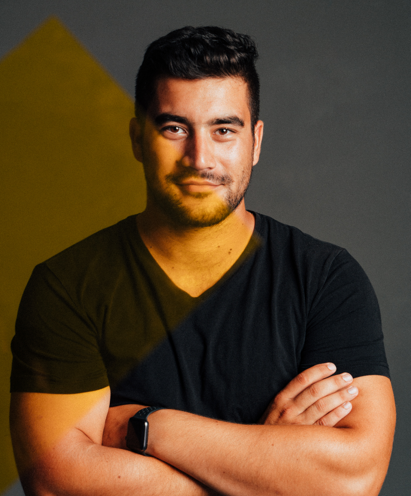
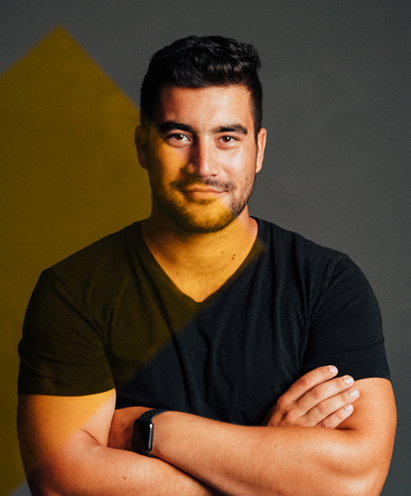
images updated, grayscale filter added, footer updated

diff --git a/dist/css/style.css b/dist/css/style.css
@@ -1,1 +1,1 @@
-a,abbr,acronym,address,applet,b,big,blockquote,body,caption,center,cite,code,dd,del,dfn,div,dl,dt,em,fieldset,font,form,h1,h2,h3,h4,h5,h6,html,i,iframe,img,ins,kbd,label,legend,li,object,ol,p,pre,q,s,samp,small,span,strike,strong,sub,sup,table,tbody,td,tfoot,th,thead,tr,tt,u,ul,var{margin:0;padding:0;border:0;outline:0;font-size:100%;vertical-align:baseline;background:transparent}body{line-height:1}ol,ul{list-style:none}blockquote,q{quotes:none}blockquote:after,blockquote:before,q:after,q:before{content:"";content:none}:focus{outline:0}ins{text-decoration:none}del{text-decoration:line-through}table{border-collapse:collapse;border-spacing:0}@font-face{font-family:NHaasGroteskTX;font-weight:400;src:url(fonts/nhaasgrotesktx_regular.ttf) format("truetype")}@-webkit-keyframes a{0%{-webkit-transform:translateX(50%)}to{-webkit-transform:translateX(-100%)}}@keyframes a{0%{transform:translateX(50%)}to{transform:translateX(-100%)}}.border-top{border-top:1px solid #979797}.border-bottom{border-bottom:1px solid #979797}.container{max-width:80%;margin:0 auto}.btn{background:#322f31;color:#fff}.btn:hover{color:#322f31}.grid{display:grid;grid-gap:1.8rem;grid-template-columns:1fr 1fr 1fr;grid-template-rows:auto auto}.marquee{height:50px;overflow:hidden;position:relative}.marquee p{position:absolute;width:200%;height:100%;margin:0;line-height:50px;text-align:center;transform:translateX(200%);-webkit-animation:a 0s linear infinite;animation:a 35s linear infinite}a{color:inherit;text-decoration:none}a:hover{text-decoration:underline;background:hsla(43,11%,87%,.9)}img{max-width:100%;height:auto}h1,h2,h3,h4,h5,h6{font-weight:400}p{margin-bottom:1.6rem}li,p{line-height:1.25}.desktop-only{display:none}@media screen and (min-width:991px){.desktop-only{display:block}}*{-webkit-font-smoothing:antialiased;-moz-osx-font-smoothing:grayscale}::-moz-selection{background:hsla(43,11%,87%,.9)}::selection{background:hsla(43,11%,87%,.9)}html{scroll-behavior:smooth}body,html{background:#fff}body{font-size:18px;font-family:NHaasGroteskTX;color:#322f31}header{display:flex;flex-direction:row;justify-content:space-between;align-items:center;width:100%;padding:.6rem 0}header img{max-height:2rem}header nav ul li{display:inline;padding:.1rem .3rem}header nav ul li:hover{text-decoration:underline;background:hsla(43,11%,87%,.9)}main section{padding-bottom:6rem}main section h2{font-size:2rem;margin-top:.4rem;margin-bottom:2rem}main section#hero{display:flex;flex-direction:row;justify-content:space-between;align-items:center;padding:8rem 0}main section#hero h1{font-size:9.7rem;line-height:10.3rem}main section#services{display:grid;grid-template-columns:1fr 1fr 1fr;grid-template-rows:auto;grid-gap:1.8rem}main section#services .description{margin-top:2rem}main section#services .list{margin-top:4rem}main section#process .marquee{font-style:italic}main section#process #process-slider{width:100%;height:auto;margin-top:6rem;padding:1rem 0}main section#process #process-slider .slider-content-wrapper{display:flex;flex-direction:row;justify-content:space-between;align-items:flex-start;padding:6rem 0 0}main section#process #process-slider .slider-content-wrapper .slider-title{font-size:9rem}main section#process #process-slider .slider-content-wrapper .slider-content{max-width:46%}main section#process #process-slider .swiper-pagination{position:relative;align-items:center;display:grid;grid-template-columns:1fr 1fr 1fr;justify-content:space-between}main section#process #process-slider .swiper-pagination:before{content:"";width:98%;height:1px;position:absolute;top:50%;left:1%;background:#979797;z-index:-1}main section#process #process-slider .swiper-pagination-bullets{width:100%!important}main section#process #process-slider .swiper-pagination-bullets .swiper-pagination-bullet{width:1.875rem;height:1.875rem;border-radius:0;background:#322f31;opacity:1;justify-self:center}main section#process #process-slider .swiper-pagination-bullets .swiper-pagination-bullet.swiper-pagination-bullet-active{width:3.625rem;height:3.625rem}main section#process #process-slider .swiper-pagination-bullets .swiper-pagination-bullet:first-child{justify-self:start}main section#process #process-slider .swiper-pagination-bullets .swiper-pagination-bullet:last-child{justify-self:end}main section#clients .grid{display:grid;grid-template-columns:1fr 1fr 1fr 1fr 1fr 1fr 1fr;grid-template-rows:1fr 1fr;grid-gap:1.8rem}main section#clients .grid .client{background:hsla(43,11%,87%,.9)}main section#clients .grid .client:before{content:"";float:left;padding-top:100%}main section#about .team{display:grid;grid-template-columns:1fr 1fr 1fr;grid-gap:1.8rem;grid-template-rows:auto;margin-top:5rem}main section#about .team .team-member h2{font-size:100%;margin-bottom:0;margin-top:1.3rem;line-height:150%}main section#contact .grid .grid-item .btn{display:block;padding:.6rem 1.2rem}
+a,abbr,acronym,address,applet,b,big,blockquote,body,caption,center,cite,code,dd,del,dfn,div,dl,dt,em,fieldset,font,form,h1,h2,h3,h4,h5,h6,html,i,iframe,img,ins,kbd,label,legend,li,object,ol,p,pre,q,s,samp,small,span,strike,strong,sub,sup,table,tbody,td,tfoot,th,thead,tr,tt,u,ul,var{margin:0;padding:0;border:0;outline:0;font-size:100%;vertical-align:baseline;background:transparent}body{line-height:1}ol,ul{list-style:none}blockquote,q{quotes:none}blockquote:after,blockquote:before,q:after,q:before{content:"";content:none}:focus{outline:0}ins{text-decoration:none}del{text-decoration:line-through}table{border-collapse:collapse;border-spacing:0}@font-face{font-family:NHaasGroteskTX;font-weight:400;src:url(fonts/nhaasgrotesktx_regular.ttf) format("truetype")}@-webkit-keyframes a{0%{-webkit-transform:translateX(50%)}to{-webkit-transform:translateX(-100%)}}@keyframes a{0%{transform:translateX(50%)}to{transform:translateX(-100%)}}.border-top{border-top:1px solid #979797}.border-bottom{border-bottom:1px solid #979797}.container{max-width:90%;margin:0 auto}.btn{background:#322f31;color:#fff}.btn:hover{color:#322f31}.grid{display:grid;grid-gap:1.8rem;grid-template-columns:1fr 1fr 1fr;grid-template-rows:auto auto}.marquee{height:50px;overflow:hidden;position:relative}.marquee p{position:absolute;width:200%;height:100%;margin:0;line-height:50px;text-align:center;transform:translateX(200%);-webkit-animation:a 0s linear infinite;animation:a 35s linear infinite}a{color:inherit;text-decoration:none}a:hover{text-decoration:underline;background:hsla(43,11%,87%,.9)}img{max-width:100%;height:auto}@media screen and (min-width:1440px){img.grayscale-filter{filter:gray;-webkit-filter:grayscale(1)}img.grayscale-filter:hover{filter:none;-webkit-filter:grayscale(0)}}h1,h2,h3,h4,h5,h6{font-weight:400}p{margin-bottom:1.6rem}li,p{line-height:1.25}.desktop-only{display:none}@media screen and (min-width:991px){.desktop-only{display:block}}*{-webkit-font-smoothing:antialiased;-moz-osx-font-smoothing:grayscale}::-moz-selection{background:hsla(43,11%,87%,.9)}::selection{background:hsla(43,11%,87%,.9)}html{scroll-behavior:smooth;background:hsla(43,11%,87%,.9)}body{font-size:18px;font-family:NHaasGroteskTX;color:#322f31;background:#fff}header{display:flex;flex-direction:row;justify-content:space-between;align-items:center;width:100%;padding:2rem 0 1.2rem}header img{max-height:2rem}header nav ul li{display:inline;padding:.1rem .3rem;margin-left:2rem}header nav ul li:hover{text-decoration:underline;background:hsla(43,11%,87%,.9)}main section{padding-bottom:6rem}main section h2{font-size:2rem;margin-top:.4rem;margin-bottom:2rem}main section#hero{display:flex;flex-direction:row;justify-content:space-between;align-items:center;padding:8rem 0}main section#hero h1{font-size:9.7rem;line-height:10.3rem}main section#services{display:grid;grid-template-columns:1fr 1fr 1fr;grid-template-rows:auto;grid-gap:1.8rem}main section#services .description{margin-top:2rem}main section#services .list{margin-top:4rem}main section#process .marquee{font-style:italic}main section#process #process-slider{width:100%;height:auto;margin-top:6rem;padding:1rem 0}main section#process #process-slider .slider-content-wrapper{display:flex;flex-direction:row;justify-content:space-between;align-items:flex-start;padding:6rem 0 0}main section#process #process-slider .slider-content-wrapper .slider-title{font-size:9rem}main section#process #process-slider .slider-content-wrapper .slider-content{max-width:46%}main section#process #process-slider .swiper-pagination{position:relative;align-items:center;display:grid;grid-template-columns:1fr 1fr 1fr;justify-content:space-between}main section#process #process-slider .swiper-pagination:before{content:"";width:98%;height:1px;position:absolute;top:50%;left:1%;background:#979797;z-index:-1}main section#process #process-slider .swiper-pagination-bullets{width:100%!important}main section#process #process-slider .swiper-pagination-bullets .swiper-pagination-bullet{width:1.875rem;height:1.875rem;border-radius:0;background:#322f31;opacity:1;justify-self:center;transition:width .3s ease}main section#process #process-slider .swiper-pagination-bullets .swiper-pagination-bullet.swiper-pagination-bullet-active{width:3.625rem;height:3.625rem}main section#process #process-slider .swiper-pagination-bullets .swiper-pagination-bullet:first-child{justify-self:start}main section#process #process-slider .swiper-pagination-bullets .swiper-pagination-bullet:last-child{justify-self:end}main section#clients .grid{display:grid;grid-template-columns:1fr 1fr 1fr 1fr 1fr 1fr 1fr;grid-template-rows:1fr 1fr;grid-gap:1.8rem}main section#clients .grid .client{background:hsla(43,11%,87%,.9)}main section#clients .grid .client:before{content:"";float:left;padding-top:100%}main section#about .team{display:grid;grid-template-columns:1fr 1fr 1fr;grid-gap:1.8rem;grid-template-rows:auto;margin-top:5rem}main section#about .team .team-member h2{font-size:100%;margin-bottom:0;margin-top:1.3rem;line-height:150%}main section#contact .grid{grid-template-columns:1fr 1fr 1fr 1fr 1fr;justify-content:center;align-items:center;margin-top:3rem}main section#contact .grid .grid-item{justify-self:center}main section#contact .grid .grid-item:first-child{justify-self:start}main section#contact .grid .grid-item:last-child{justify-self:end}main section#contact .grid .grid-item .btn{display:inline-block;padding:.6rem 1.2rem}

diff --git a/dist/index.html b/dist/index.html
@@ -11,14 +11,14 @@
 <body>
     <header class="border-bottom container">
         <div id="logo">
-            <img src="img/harom-logo-dark.png" alt="HAROM.studio">
+            <img src="img/harom-logo-dark.svg" alt="HAROM.studio">
         </div>
         <nav>
             <ul>
-                <li><a href="">szolgáltatások</a></li>
-                <li><a href="">folyamat</a></li>
-                <li><a href="">rólunk</a></li>
-                <li><a href="">kapcsolat</a></li>
+                <li><a href="#services">szolgáltatások</a></li>
+                <li><a href="#process">folyamat</a></li>
+                <li><a href="#about">rólunk</a></li>
+                <li><a href="#contact">kapcsolat</a></li>
                 <li class="btn"><a href="">árak</a></li>
             </ul>
         </nav>
@@ -31,7 +31,7 @@
         <section id="services" class="border-top container">
             <div id="design">
                 <h2>design</h2>
-                <img src="img/design.png" alt="design.">
+                <img src="img/design.png" alt="design." class="grayscale-filter">
                 <div class="description">
                     <p>Szeretné kibővíteni offline üzleti tevékenységét egy online csatornával?</p>
                     <p>Szeretne egy összetettebb e-kereskedelmi megoldást?</p> 
@@ -47,7 +47,7 @@
             </div>
             <div id="develop">
                 <h2>fejlesztés</h2>
-                <img src="img/develop.png" alt="develop.">
+                <img src="img/develop.png" alt="develop." class="grayscale-filter">
                 <div class="description">
                     <p>Mivel mind évekig reklámügynökségek harcosai voltunk, tökéletesen megértjük az ügynökség világának gyorsan változó természetét.</p>
                     <p>Támogatjuk Önt szakértelmünkkel, így arra összpontosíthat, amit a legjobban csinál: felkeres minket egy “wow” ötlettel.</p>
@@ -133,6 +133,8 @@
                 <img src="" alt="" class="client">
                 <img src="" alt="" class="client">
                 <img src="" alt="" class="client">
+                <img src="" alt="" class="client">
+                <img src="" alt="" class="client">
             </div>
         </section>
         <section class="container border-top" id="about">
@@ -141,17 +143,17 @@
             <p>Megközelítésünk lehetővé teszi számunkra, hogy külső nézőpontból is megismerjük közönségét és céljait, valamint ösztönöz minket, hogy új megoldásokat találjunk.</p>
             <div class="team">
                 <div class="team-member">
-                    <img src="img/bence.png" alt="Bence Agócs">
+                    <img src="img/bence.png" alt="Bence Agócs" class="grayscale-filter">
                     <h2>agócs bence</h2>
                     <h3>webfejlesztés</h3>
                 </div>
                 <div class="team-member">
-                    <img src="img/marci.png" alt="Marci Borbás">
+                    <img src="img/marci.png" alt="Marci Borbás" class="grayscale-filter">
                     <h2>borbás marci</h2>
                     <h3>tervezőgrafika</h3>
                 </div>
                 <div class="team-member">
-                    <img src="img/marcell.png" alt="Marcell Gulyás">
+                    <img src="img/marcell.png" alt="Marcell Gulyás" class="grayscale-filter">
                     <h2>gulyás marcell</h2>
                     <h3>motion grafika, webdesign</h3>
                 </div>
@@ -163,7 +165,7 @@
                 <div class="grid-item">
                     <a href="" class="email-link grid-item">weboldal@harom.studio</a>
                 </div>
-                <div class="grid-item desktop-only"></div>
+                <!-- <div class="grid-item desktop-only"></div> -->
                 <div class="grid-item">
                     <a href="" class="insta-link grid-item">instagram</a>
                 </div>

diff --git a/src/index.html b/src/index.html
@@ -11,14 +11,14 @@
 <body>
     <header class="border-bottom container">
         <div id="logo">
-            <img src="img/harom-logo-dark.png" alt="HAROM.studio">
+            <img src="img/harom-logo-dark.svg" alt="HAROM.studio">
         </div>
         <nav>
             <ul>
-                <li><a href="">szolgáltatások</a></li>
-                <li><a href="">folyamat</a></li>
-                <li><a href="">rólunk</a></li>
-                <li><a href="">kapcsolat</a></li>
+                <li><a href="#services">szolgáltatások</a></li>
+                <li><a href="#process">folyamat</a></li>
+                <li><a href="#about">rólunk</a></li>
+                <li><a href="#contact">kapcsolat</a></li>
                 <li class="btn"><a href="">árak</a></li>
             </ul>
         </nav>
@@ -31,7 +31,7 @@
         <section id="services" class="border-top container">
             <div id="design">
                 <h2>design</h2>
-                <img src="img/design.png" alt="design.">
+                <img src="img/design.png" alt="design." class="grayscale-filter">
                 <div class="description">
                     <p>Szeretné kibővíteni offline üzleti tevékenységét egy online csatornával?</p>
                     <p>Szeretne egy összetettebb e-kereskedelmi megoldást?</p> 
@@ -47,7 +47,7 @@
             </div>
             <div id="develop">
                 <h2>fejlesztés</h2>
-                <img src="img/develop.png" alt="develop.">
+                <img src="img/develop.png" alt="develop." class="grayscale-filter">
                 <div class="description">
                     <p>Mivel mind évekig reklámügynökségek harcosai voltunk, tökéletesen megértjük az ügynökség világának gyorsan változó természetét.</p>
                     <p>Támogatjuk Önt szakértelmünkkel, így arra összpontosíthat, amit a legjobban csinál: felkeres minket egy “wow” ötlettel.</p>
@@ -133,6 +133,8 @@
                 <img src="" alt="" class="client">
                 <img src="" alt="" class="client">
                 <img src="" alt="" class="client">
+                <img src="" alt="" class="client">
+                <img src="" alt="" class="client">
             </div>
         </section>
         <section class="container border-top" id="about">
@@ -141,17 +143,17 @@
             <p>Megközelítésünk lehetővé teszi számunkra, hogy külső nézőpontból is megismerjük közönségét és céljait, valamint ösztönöz minket, hogy új megoldásokat találjunk.</p>
             <div class="team">
                 <div class="team-member">
-                    <img src="img/bence.png" alt="Bence Agócs">
+                    <img src="img/bence.png" alt="Bence Agócs" class="grayscale-filter">
                     <h2>agócs bence</h2>
                     <h3>webfejlesztés</h3>
                 </div>
                 <div class="team-member">
-                    <img src="img/marci.png" alt="Marci Borbás">
+                    <img src="img/marci.png" alt="Marci Borbás" class="grayscale-filter">
                     <h2>borbás marci</h2>
                     <h3>tervezőgrafika</h3>
                 </div>
                 <div class="team-member">
-                    <img src="img/marcell.png" alt="Marcell Gulyás">
+                    <img src="img/marcell.png" alt="Marcell Gulyás" class="grayscale-filter">
                     <h2>gulyás marcell</h2>
                     <h3>motion grafika, webdesign</h3>
                 </div>
@@ -163,7 +165,7 @@
                 <div class="grid-item">
                     <a href="" class="email-link grid-item">weboldal@harom.studio</a>
                 </div>
-                <div class="grid-item desktop-only"></div>
+                <!-- <div class="grid-item desktop-only"></div> -->
                 <div class="grid-item">
                     <a href="" class="insta-link grid-item">instagram</a>
                 </div>

diff --git a/src/scss/style.scss b/src/scss/style.scss
@@ -53,7 +53,7 @@ $desktop-large:                 2200px;
 .border-top { border-top: 1px solid $grey; }
 .border-bottom { border-bottom: 1px solid $grey; }
 .container {
-    max-width: 80%;
+    max-width: 90%;
     margin: 0 auto;
 }
 .btn {
@@ -99,6 +99,16 @@ a {
 img {
     max-width: 100%;
     height: auto;
+    &.grayscale-filter {
+        @media screen and (min-width: $desktop) {
+            filter: gray;
+            -webkit-filter: grayscale(1);
+            &:hover {
+                filter: none;
+                    -webkit-filter: grayscale(0);
+            }
+        }
+    }
 }
 h1, h2, h3, h4, h5, h6 { font-weight: normal; }
 p { margin-bottom: 1.6rem; line-height: 1.25; }
@@ -120,7 +130,7 @@ li { line-height: 1.25; }
 }
 ::-moz-selection { background: $white; }
 ::selection { background: $white; }
-html{ scroll-behavior: smooth; background: $white-broken; }
+html{ scroll-behavior: smooth; background: $white; }
 body {
 	font-size: 18px;
     font-family: "NHaasGroteskTX";
@@ -134,7 +144,7 @@ header {
     justify-content: space-between;
     align-items: center;
     width: 100%;
-    padding: .6rem 0;
+    padding: 2rem 0 1.2rem 0;
     img {
         max-height: 2rem;
     }
@@ -143,6 +153,7 @@ header {
             li {
                 display: inline;
                 padding: .1rem .3rem;
+                margin-left: 2rem;
                 &:hover {
                     text-decoration: underline;
                     background: $white;
@@ -232,6 +243,7 @@ main {
                     background: $black;
                     opacity: 1;
                     justify-self: center;
+                    transition: width .3s ease;
                     // position: absolute;
                     &.swiper-pagination-bullet-active {
                         width: 3.625rem;
@@ -282,9 +294,16 @@ main {
     }
     section#contact {
         .grid {
+            grid-template-columns: 1fr 1fr 1fr 1fr 1fr;
+            justify-content: center;
+            align-items: center;
+            margin-top: 3rem;
             .grid-item {
+                justify-self: center;
+                &:first-child { justify-self: start; }
+                &:last-child { justify-self: end; }
                 .btn {
-                    display: block;
+                    display: inline-block;
                     padding: .6rem 1.2rem;
                 }
             }
